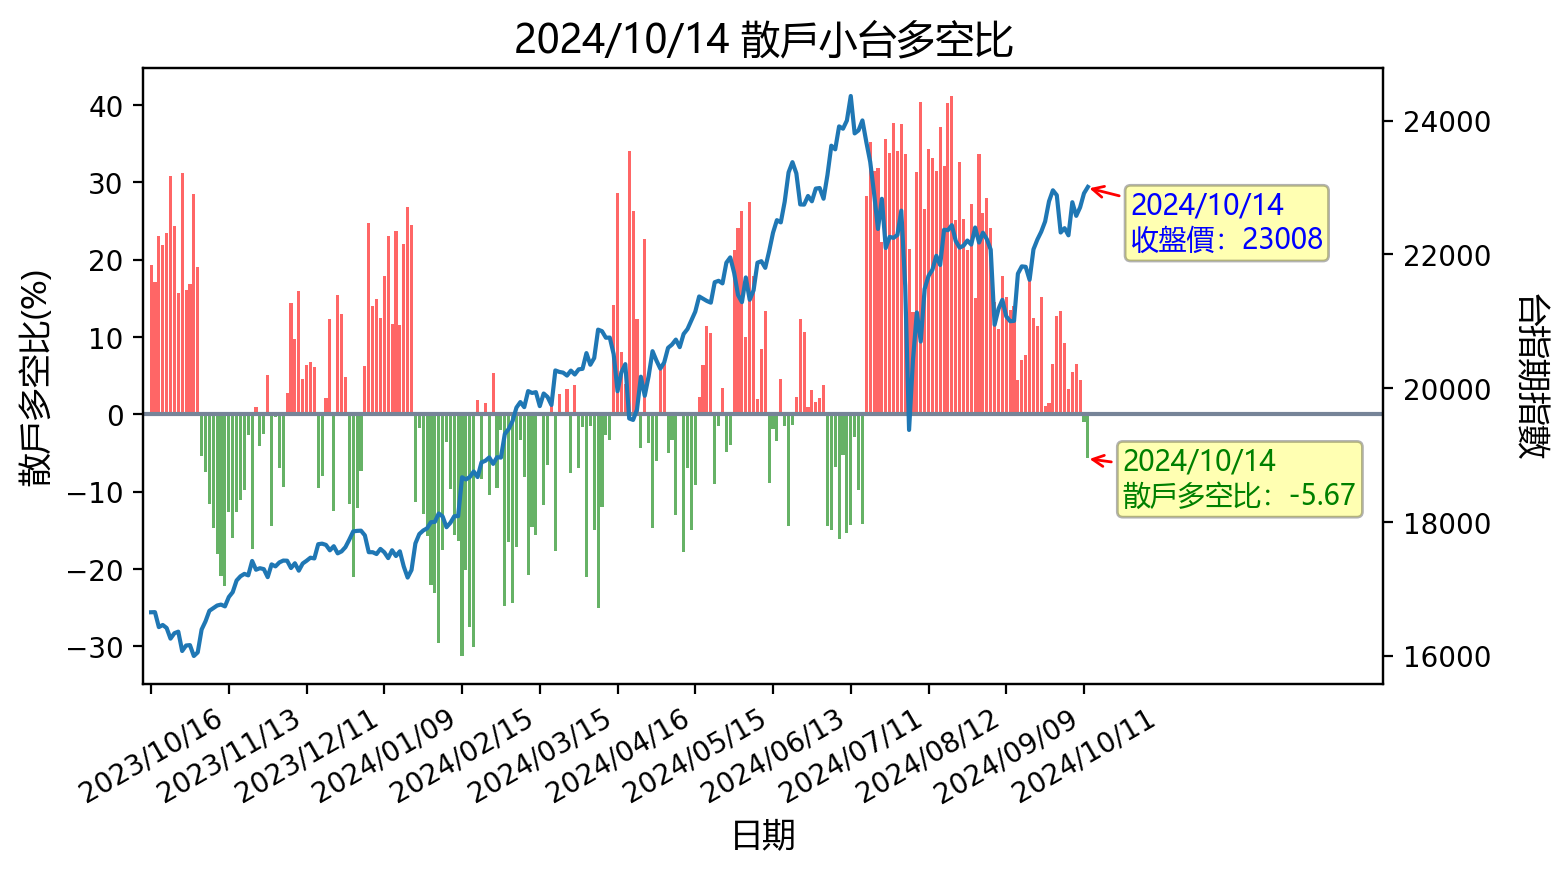
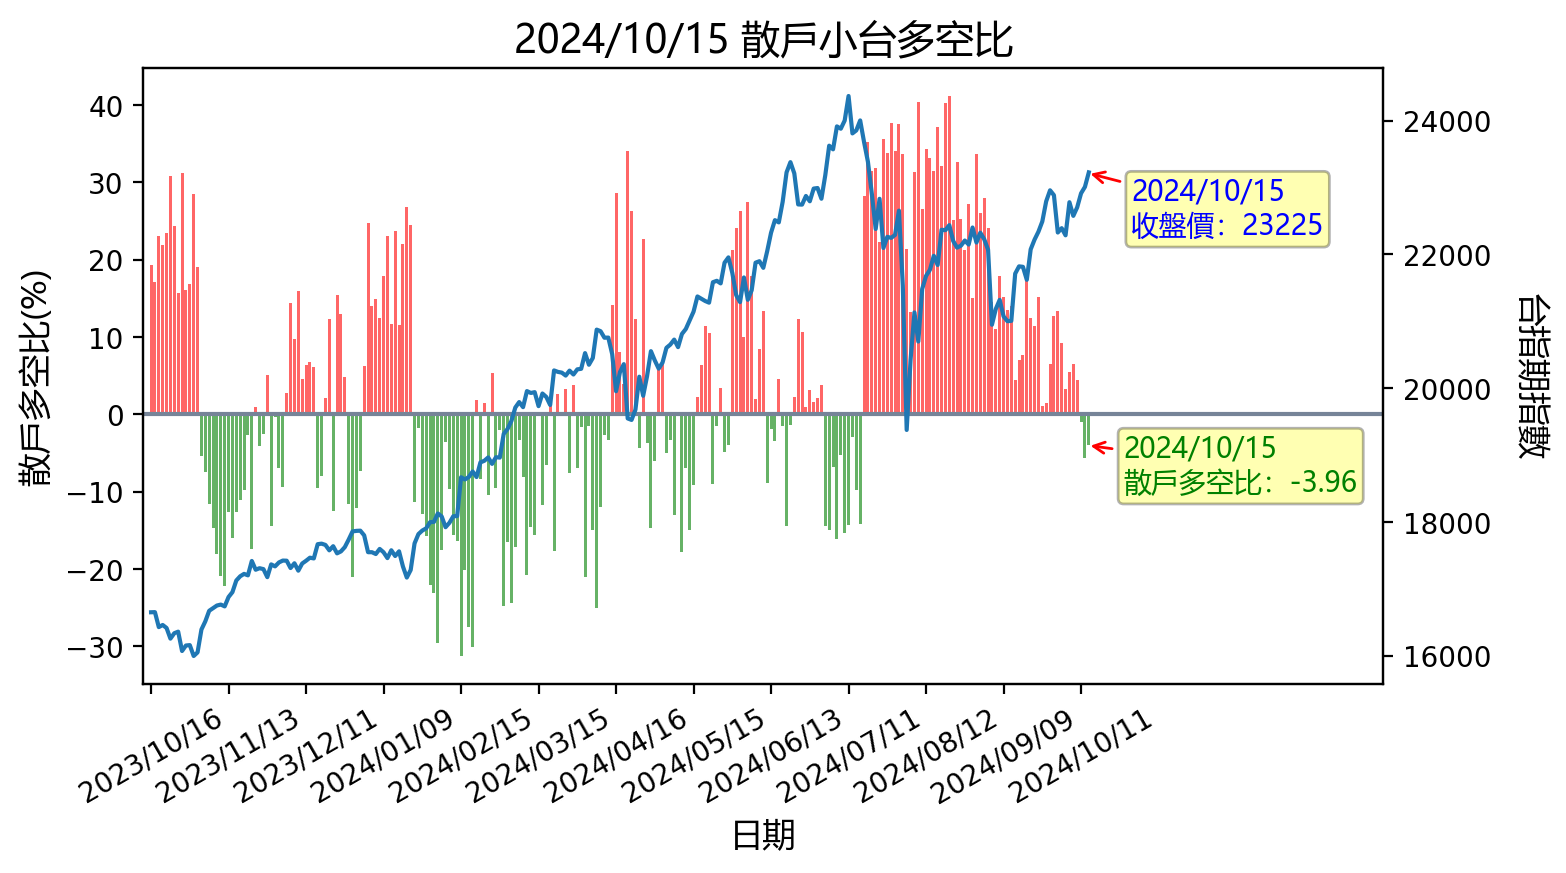
更新時間: Tue Oct 15 16:34:22 CST 2024

diff --git a/README.md b/README.md
@@ -1,12 +1,12 @@
-## 20241014 台指期「預估換倉成本」
+## 20241015 台指期「預估換倉成本」
 ![](images/txfcost.png)
 
-## 20241014 台指期「散戶小台多空比」
+## 20241015 台指期「散戶小台多空比」
 ![](images/bbiri.png)
 
-## 20241014 台指選擇權「Put/Call Ratios」
+## 20241015 台指選擇權「Put/Call Ratios」
 ![](images/pcratio.png)
 
-## 20241014 台指期「大額交易人」
+## 20241015 台指期「大額交易人」
 ![](images/blocktrade.png)
 
